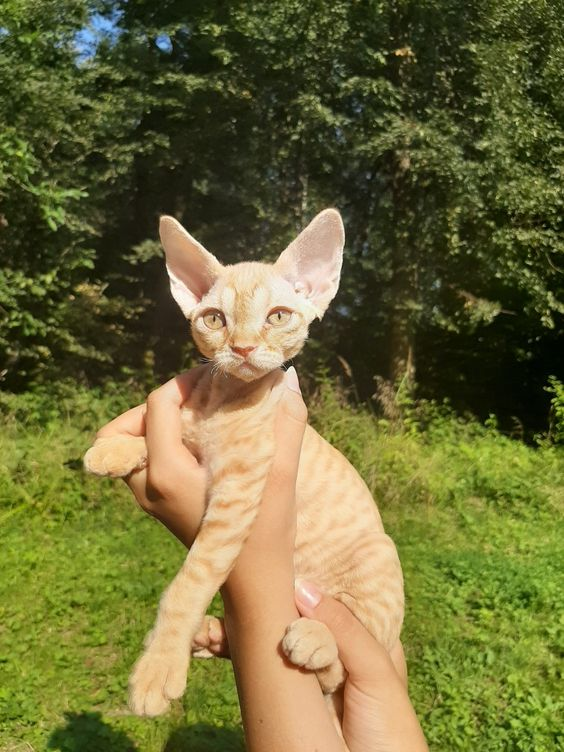
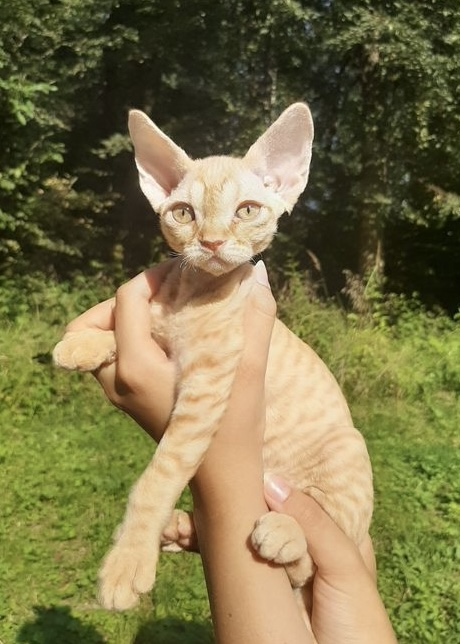
gallery section display flex removed and 2 columns added, images order changed and cropped to fit screen

diff --git a/index.html b/index.html
@@ -227,7 +227,7 @@
         <h2>Gallery</h2>
         <div class="img-wrapper">
           <img
-            src="assets/images/cat-1.png"
+            src="assets/images/cat-1.jpg"
             alt="light gray devon rex cat"
           /><img
             src="assets/images/cat-2.jpg"
@@ -239,30 +239,32 @@
             src="assets/images/cat-4.jpg"
             alt="light gray devon rex cat"
           /><img
+            src="assets/images/cat-7.jpg"
+            alt="a light gray, with yellow and white devon rex cat looking directly to the camera"
+          /><img
             src="assets/images/cat-5.jpg"
             alt="white devon rex cat siting in the couch back rest"
           /><img
             src="assets/images/cat-6.jpg"
             alt="light gray and white devon rex little kitten siting on the bed"
           /><img
-            src="assets/images/cat-7.png"
-            alt="a light gray, with yellow and white devon rex cat looking directly to the camera"
-          /><img
             src="assets/images/cat-8.jpg"
             alt="three devon rex cat, one yellow, another light gray and a white siting indoors and looking away from the camera in a bright day"
+          />
+          <img
+            src="assets/images/cat-12.jpg"
+            alt="a light gray devon rex kitten being held by two hands, on someones lap and looking at someones's face"
           /><img
             src="assets/images/cat-9.jpg"
             alt="a dark brown devon rex kitten siting by the window, in a bright day, looking directly to the camera"
-          /><img
+          />
+          <img
             src="assets/images/cat-10.jpg"
             alt="a light beige devon rex cat siting by the window, with its eyes closed and enjoying the sun"
           />
           <img
             src="assets/images/cat-11.jpg"
             alt="two light gray devon rex cats, with blue eyes, siting in the couch, looking directly to the camera"
-          /><img
-            src="assets/images/cat-12.jpg"
-            alt="a light gray devon rex kitten being held by two hands, on someones lap and looking at the person's face"
           />
         </div>
       </section>

diff --git a/assets/css/style.css b/assets/css/style.css
@@ -472,16 +472,12 @@ nav {
 
   /* gallery section */
   .img-wrapper {
-    width: 100%;
-    row-gap: 2rem;
-    display: flex;
-    flex-wrap: wrap;
-    align-items: center;
-    justify-content: space-between;
+    column-count: 2;
+    column-gap: 1rem;
   }
 
   .img-wrapper img {
-    width: 48.5%;
+    margin-top: 1rem;
     margin-bottom: 0;
   }
 
